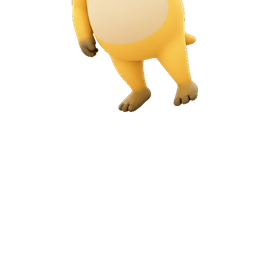
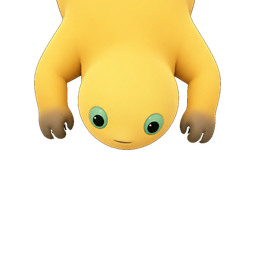
feat: 顶边改成专门的「探身下望」姿态，八向素材收尾
edge-n 原来是对半切，只剩腹部和双脚压在屏幕上边，看不出是只蛙。
改成单独图生图一张：蛙趴在边缘上往下探，头垂下、两只前爪扒住边，
身体跑出画面上边被切平。抠图后把可见像素顶到画布上边即可。

第一版翻过一次车：只写了「往下探」，模型把头朝下之后顺手把奶白
肚皮也画到画面正中。从上后方看蛙，肚皮压在边缘上根本不该出现，
视角前后矛盾。提示词补上「必须看到背、纯黄、不许有肚皮」才干净。

比例不能按身高归一：这张画的是「头 + 一大截背」，背有多长全看模型
心情，按整体缩头部会缩没。改成按头宽对齐站立帧（头宽约 84 对 84~90），
再把超过 150px 的背裁掉——那段在屏幕外，裁了没人看得见。

源姿态图移到 assets/naiwa/edges/src/ 跟成品放一起。原来在 build/
里，那是 gitignore 的，重新克隆后 --build 会静默退化成对半切，而
退化只有肉眼看得出来。改路径后重建，八张 hash 与改之前逐字节一致。

SPEC 补上「提示词必须写清看到的是背」这条，免得下次重画又踩。

diff --git a/make_pet_edges.py b/make_pet_edges.py
@@ -3,8 +3,13 @@
     python make_pet_edges.py --prep     # 切参考帧、出 1024 参考图
     python make_pet_edges.py --build    # 抠图 + 摆放 + 八个方向裁切
     python make_pet_edges.py --sheet    # 出一张预览拼图
+    python make_pet_edges.py --context  # 出一张模拟桌面贴边的场景图
 
 产物：assets/naiwa/edges/edge-{n,ne,e,se,s,sw,w,nw}.png（256x256 RGBA）
+
+素材来源是两个目录，各取第一张：
+    build/naiwa_edges/raw/     斜姿态。出七张（四边里的三条 + 四角）
+    build/naiwa_edges/raw_n/   探身下望。只出 edge-n；缺省则退回对半切
 
 设计约定（接入时唯一需要记住的规则）：
     画布靠窗口的那条边 == 窗口边缘。
@@ -25,10 +30,22 @@ SRC = HERE / "assets" / "naiwa" / "sheet.png"
 OUT = HERE / "assets" / "naiwa" / "edges"
 BUILD = HERE / "build" / "naiwa_edges"
 REF = BUILD / "ref"
-RAW = BUILD / "raw"
+
+# 源姿态图跟成品放在一起，不进 build/：build/ 是 gitignore 的，
+# 源图放那儿等于「重新克隆后 --build 会静默退化」，而退化只有肉眼看得出
+SRC_SIDE = OUT / "src" / "side"     # 斜姿态，出七张
+SRC_PEEK = OUT / "src" / "peek"     # 探身下望，只出顶边
 
 CANVAS = 256          # 画布边长（正方形，四角留够斜探空间）
 FROG_H = 224          # 摆位后蛙的高度：与站立帧 208 接近，吸附时不跳大小墙
+
+# 顶边那张是单独作画的：蛙趴在边缘上往下探，我们从上后方看它的**背**，
+# 肚皮压在边缘上根本看不到。这张的比例不能按身高归一——它画的是
+# 「头 + 一大截背」，背有多长完全看模型心情，按整体归一头部就会缩没。
+# 所以按头宽定尺度（蛙宽 187 时头宽约 84，与站立帧的 84~90 对得上），
+# 再把超过 PEEK_MAX_H 的背裁掉：那段在屏幕外，裁了没人看得见。
+PEEK_W = 187
+PEEK_MAX_H = 150
 
 DIRS = ("n", "ne", "e", "se", "s", "sw", "w", "nw")
 
@@ -45,7 +62,8 @@ def idle_frame() -> Image.Image:
 
 def prep() -> None:
     REF.mkdir(parents=True, exist_ok=True)
-    RAW.mkdir(parents=True, exist_ok=True)
+    SRC_SIDE.mkdir(parents=True, exist_ok=True)
+    SRC_PEEK.mkdir(parents=True, exist_ok=True)
     fr = idle_frame()
     fr.save(REF / "idle.png")
 
@@ -56,6 +74,7 @@ def prep() -> None:
     canvas.convert("RGB").save(REF / "idle_ref.png")
     print(f"参考帧 = {REF / 'idle.png'}  ({fr.width}x{fr.height})")
     print(f"参考大图 = {REF / 'idle_ref.png'}  (1024x1024)")
+    print(f"源姿态图放这里：{SRC_SIDE}（斜姿态）/ {SRC_PEEK}（探身下望）")
 
 
 # ---------------------------------------------------------------- 抠图对齐
@@ -97,9 +116,12 @@ def cutout(src: Path, size: tuple[int, int]) -> Image.Image:
     box = (xs.min(), ys.min(), xs.max() + 1, ys.max() + 1)
     cut = Image.fromarray(rgba[box[1]:box[3], box[0]:box[2]], "RGBA")
 
-    # 缩放到固定高度，宽度按比例
-    w = max(1, round(cut.width * size[1] / cut.height))
-    return cut.resize((w, size[1]), Image.LANCZOS)
+    # 缩放到固定尺寸：size 里哪一项为 0 就按另一项等比算
+    if size[1]:
+        w = max(1, round(cut.width * size[1] / cut.height))
+        return cut.resize((w, size[1]), Image.LANCZOS)
+    h = max(1, round(cut.height * size[0] / cut.width))
+    return cut.resize((size[0], h), Image.LANCZOS)
 
 
 # ---------------------------------------------------------------- 摆位与遮罩
@@ -192,21 +214,49 @@ def place(frog: Image.Image, cut: str, ratio: float, valign: str | None) -> Imag
     return canvas
 
 
+def place_peek(frog: Image.Image) -> Image.Image:
+    """顶边专用：蛙趴在边缘上往下探，身子在屏幕外。
+
+    这张图本身画的就是「头在下、身体被画面上边切平」的构图，所以不套
+    上面那套裁切比例——可见像素顶到画布上边，切口自然就落在那里。
+    """
+    c = CANVAS
+    canvas = Image.new("RGBA", (c, c), (0, 0, 0, 0))
+    _paste(canvas, frog, (c - frog.width) // 2, 0)
+    return canvas
+
+
 def build() -> None:
     OUT.mkdir(parents=True, exist_ok=True)
-    srcs = sorted(RAW.glob("*.png"))
+    srcs = sorted(SRC_SIDE.glob("*.png"))
     if not srcs:
-        print(f"没有素材：把图生图结果放进 {RAW}")
+        print(f"没有素材：把图生图结果放进 {SRC_SIDE}")
         return
 
     base = cutout(srcs[0], (0, FROG_H))
     mirror = base.transpose(Image.FLIP_LEFT_RIGHT)
     print(f"基准蛙 = {base.width}x{base.height}")
 
+    # 顶边单独一张姿态（探身下望）。没有就用对半切的老办法兜底，
+    # 那种切法只剩腹部和脚，能用但看不出是蛙
+    peek = None
+    n_src = sorted(SRC_PEEK.glob("*.png")) if SRC_PEEK.is_dir() else []
+    if n_src:
+        peek = cutout(n_src[0], (PEEK_W, 0))
+        if peek.height > PEEK_MAX_H:
+            # 只留头上面一小截背，再往上都是要藏到屏幕外的
+            peek = peek.crop((0, peek.height - PEEK_MAX_H, peek.width, peek.height))
+        print(f"顶边姿态 = {peek.width}x{peek.height}  ({n_src[0].name})")
+    else:
+        print(f"顶边姿态 = 缺省，edge-n 退回对半切（放一张进 {SRC_PEEK} 可换掉）")
+
     for d in DIRS:
         cfg = SPEC[d]
-        frog = mirror if cfg["flip"] else base
-        img = place(frog, cfg["cut"], cfg["ratio"], cfg["valign"])
+        if d == "n" and peek is not None:
+            img = place_peek(peek)
+        else:
+            frog = mirror if cfg["flip"] else base
+            img = place(frog, cfg["cut"], cfg["ratio"], cfg["valign"])
         img.save(OUT / f"edge-{d}.png", "PNG")
         alpha = np.asarray(img)[:, :, 3]
         print(f"  edge-{d}.png  {img.width}x{img.height}  "

diff --git a/assets/naiwa/edges/SPEC.md b/assets/naiwa/edges/SPEC.md
@@ -14,7 +14,7 @@
 
 | 文件 | 被遮挡的一侧 | 画面上能看到的 | 对齐的屏幕边 | 可见像素包围盒 |
 | --- | --- | --- | --- | --- |
-| `edge-n.png` | 上（切 50%） | 腹部 + 双脚，头在边缘之上 | 上边 | (71, 0, 198, 112) |
+| `edge-n.png` | 上（整条背出画） | 头朝下 + 两只前爪扒住边缘，看得见的是**背**，没有肚皮 | 上边 | (34, 0, 221, 150) |
 | `edge-s.png` | 下（切 50%） | 头 + 举起的右手，身子在边缘之下 | 下边 | (58, 144, 193, 256) |
 | `edge-w.png` | 左（切 50%） | 右半身，脸朝右（朝屏幕内侧） | 左边 | (0, 26, 70, 240) |
 | `edge-e.png` | 右（切 50%） | 左半身，脸朝左（朝屏幕内侧） | 右边 | (186, 26, 256, 240) |
@@ -25,6 +25,10 @@
 
 包围盒是「可见像素」的 `(x0, y0, x1, y1)`，不是不透明矩形的边界——四个角上那组数字顶到 0 或 256，说明像素确实压到了画布边，没有留缝。
 
+顶边那张是**单独作画**的：其余七张由同一张斜姿态派生（西侧三个方向镜像），只有它画的是另一个姿态——蛙趴在边缘上往下探，从上后方看过去，所以躯干露出来的是**背**（纯黄），肚皮压在边缘上、根本不该出现。这张图的构图天然就是「头在下、身体被上边切平」，不套「对半切」的比例。
+
+比例按**头宽**对齐，不按身高：这张的背画得很长，按整体归一头部会缩没。成品宽 187、可见高 150，头宽约 84，与站立帧的 84–90 对得上；超出 150 px 的那截背直接裁掉——它在屏幕外，裁了没人看得见。所以它比另外七张「重」一些（占画布 34% vs 14–16%），那是完整的头肩加两只爪子，不是比例错了。
+
 ## 尺寸与格式
 
 | 项 | 值 |
@@ -33,8 +37,8 @@
 | 格式 | PNG，RGBA 8 bit/通道（32 位），sRGB |
 | 背景 | 全透明，无投影、无描边、无地面阴影 |
 | 单文件体积 | 18–21 KB |
-| 可见内容 | 左右两张 70×214，上下两张 127×112 / 135×112，四角 77×214；覆盖率 13–16% |
-| 与站立帧的比例 | 站立帧 192×208，贴边帧可见高 214 → 大 2.9%，吸附前后不跳大小 |
+| 可见内容 | 左右两张 70×214，下边 135×112，顶边 187×150，四角 77×214；覆盖率 14–34% |
+| 与站立帧的比例 | 站立帧 192×208。除顶边外可见高 214（大 2.9%）；顶边按头宽对齐，见上 |
 
 比例是按游戏帧（`manifest.json` 的 `frame_w/frame_h`）校准的，不是按屏幕分辨率。所以接入时**不要**再按窗口尺寸二次拉伸，用 256 画布 1:1 或等比例缩放即可。
 
@@ -75,17 +79,21 @@ edge-{dir}.png
 
 ```bash
 python make_pet_edges.py --prep      # 从 sheet.png 切站立帧，出 1024 参考图（图生图用）
-#   → 把图生图结果（斜姿态、深灰底）放进 build/naiwa_edges/raw/
+#   → 斜姿态（七张用）放 src/side/，探身下望（只给顶边）放 src/peek/
 python make_pet_edges.py --build     # 抠图 → 摆位 → 八个方向裁切
 python make_pet_edges.py --sheet     # 3×3 预览 → screenshots/pet-edges.png
 python make_pet_edges.py --context   # 模拟桌面贴边 → screenshots/pet-edges-context.png
 ```
 
+源姿态图在 `src/` 下，进仓库、不进包——放 `build/` 里的话（那是 gitignore 的）重新克隆后会静默退化成对半切，而退化只有肉眼看得出来。两个目录都只取第一张图；`src/peek/` 缺省时顶边退回对半切，只剩腹部和脚，能用但看不出是只蛙。
+
 `--context` 那张是给评审看的：八只同时贴在屏幕四边四角，切口是否齐平一眼能看出来。
 
 ## 已知取舍
 
-**`edge-n` 只有腹部和脚。** 蛙在屏幕上边之上，可见的必然是身体下半截，头被屏幕外裁掉。这是几何上唯一正确的结果，不是画漏了。四角那两组没这个问题，因为它们切的是竖边，头完整保留。如果顶边也想要「露脸」，需要一张专门俯身往下看的姿态（头在角色包围盒的下部），属于另一次作画，现有素材派生不出来。
+**顶边要单独作画。** 蛙挂在屏幕上边之上，几何上可见的只能是身体下半截，头必然在屏幕外——四个角没这个问题，因为它们切的是竖边，头完整保留。所以顶边这张是另一次图生图：让模型画「趴在边缘上往下探，身体跑出画面上边被切平」，抠图后把可见像素顶到画布上边即可。
+
+**提示词必须写清「看到的是背」。** 第一版只说了「往下探」，模型把头朝下之后顺手把奶白肚皮也画到了画面正中——从上后方看蛙，肚皮压在边缘上根本不该出现，这是视角前后矛盾。加上「必须看到背、纯黄、不许出现奶白肚皮」才干净。要重画风格，改的是这两张源图，不是代码。
 
 **四角只切 45%，不是 50%。** 头在角色最上方，任何水平切口都会把头切掉，所以四角的遮挡全部交给竖边，垂直方向靠贴角（顶到画布边）来体现「在角落里」。代价是角的遮挡感比四边弱一档，45% 是「看得出被挡」和「保住脸」之间的平衡点。
 
